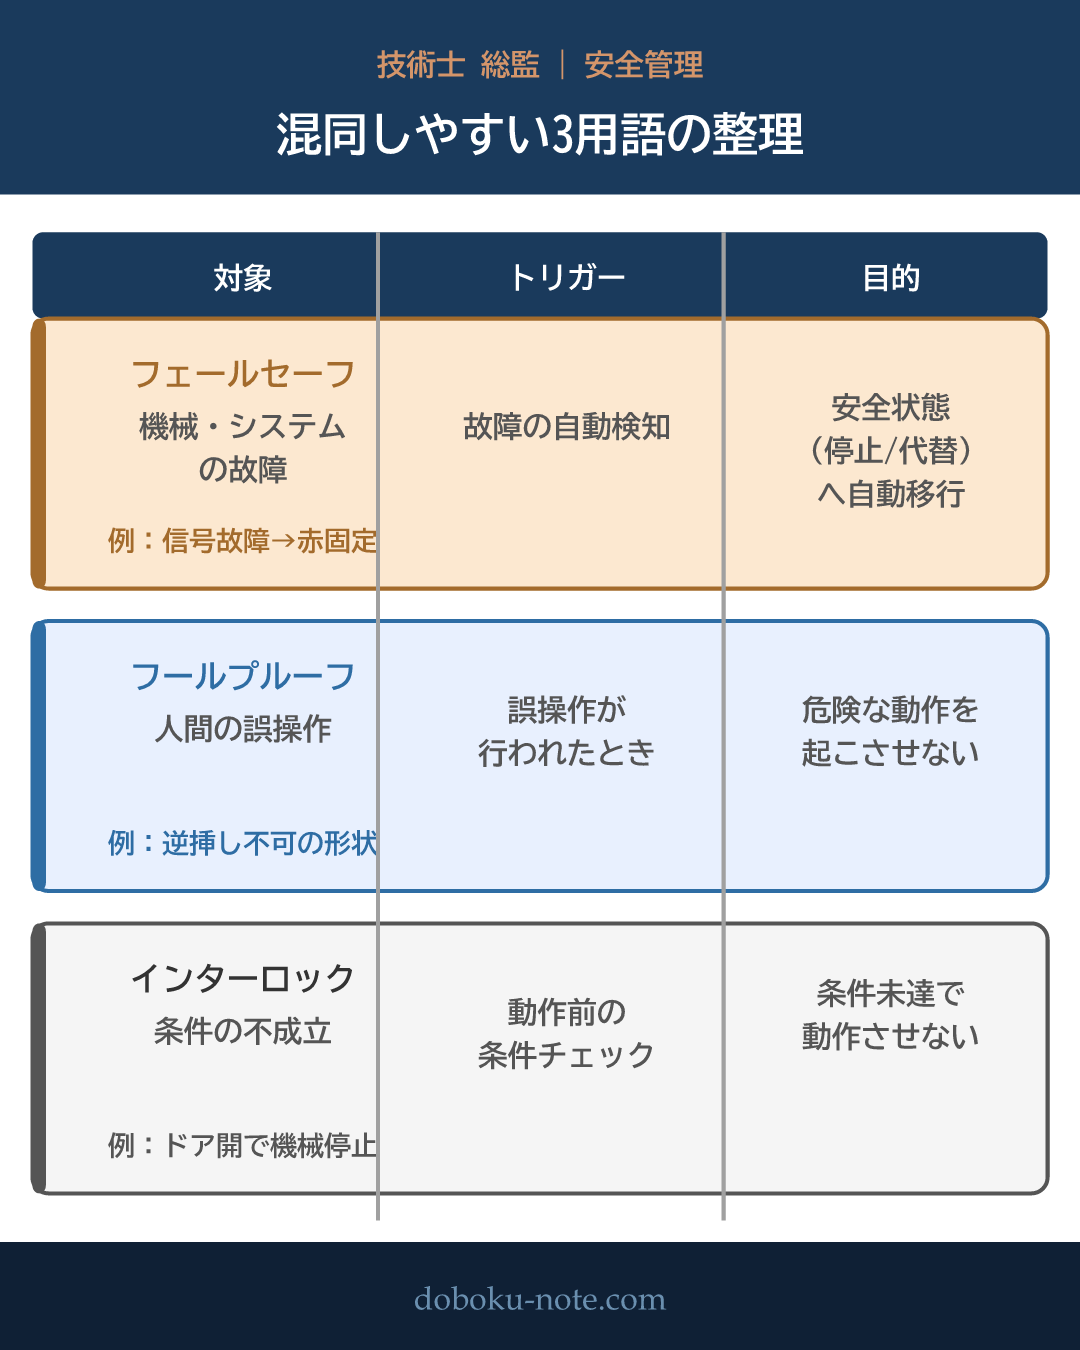
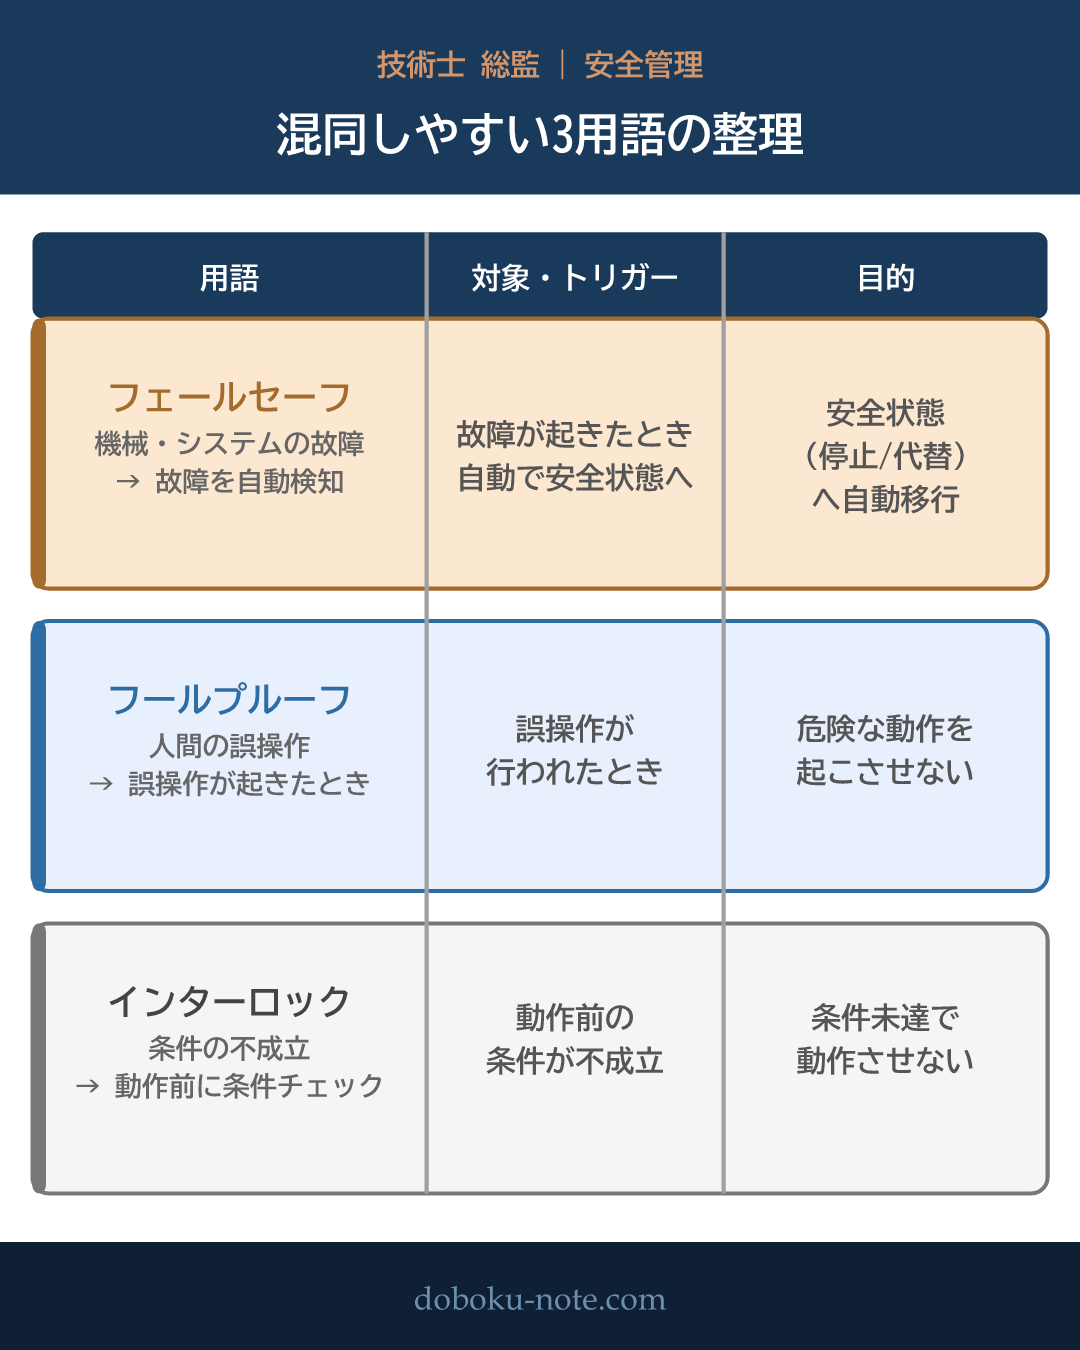
guard(ig): keyword pack SVGレイアウト品質ルール追加（即時目視確認・6点チェック）＋03-figure縦線位置修正

diff --git a/.claude/skills/social/ig-figure-pack/SKILL.md b/.claude/skills/social/ig-figure-pack/SKILL.md
@@ -50,6 +50,31 @@ docs/sns/instagram/{exam}/keyword-packs/{keyword}/   ← keyword-packs/ サブdi
 
 ## 進め方
 
+### 0. SVG コーディングルール（全スライド共通）
+
+SVG を Write したら**必ず即座に PNG を resvg で生成し Read で目視確認してから次のスライドに進む**。全枚書き終えてから一括確認しない（問題発覚が遅れる）。
+
+```bash
+node -e "
+import('@resvg/resvg-js').then(({Resvg})=>{
+  const {readFileSync,writeFileSync}=require('fs');
+  const svg=readFileSync('PATH/NN-name.svg','utf8');
+  const buf=new Resvg(svg,{fitTo:{mode:'width',value:1080},font:{loadSystemFonts:true}}).render().asPng();
+  writeFileSync('PATH/NN-name.png',buf);
+  console.log('done',buf.length);
+});
+"
+```
+
+**目視で必ず確認する 6 点（レイアウト品質）:**
+
+- [ ] **テキストが列/行境界をはみ出していない** — text-anchor="middle" + 中心座標で列幅の半分を超えるテキストは折り返しか font-size 縮小
+- [ ] **テキスト最下行の baseline から行ボーダー（rect 下辺）まで ≥ 20px 確保** — 行高 100px に対して最下テキストは bottom−20 以上の余裕
+- [ ] **カード内テキストはヘッダー矩形の bottom + 14px 以下から開始** — ヘッダー rect の下辺 y+h から 14px あけないと英字サブタイトル等がヘッダーに食い込む
+- [ ] **比較表の縦区切り線は全行セル rect の後に描画** — rect が先だと縦線が塗り潰される。`<!-- 縦線は最後 -->` コメントで明示
+- [ ] **各列のテキスト密度が縦方向に均等** — 左列が上部寄り・右列が中央など非対称になっていないか
+- [ ] **英字サブタイトル等の装飾テキストがヘッダー rect と重なっていない** — fill が薄い色でも bg と混ざって「幽霊テキスト」になる
+
 ### 1. ディレクトリ作成と SVG 設計
 
 ```bash
@@ -160,14 +185,23 @@ X ポリシーのタグ 1-3 個ルールとは別系統。IG は 20 個まで OK
 
 ### 4. 品質確認
 
-Read ツールで 4 枚 PNG を確認（画像として表示される）。チェックポイント:
+> **Step 0 で各スライド Write 直後に目視確認済みであること**が前提。ここは全枚揃った段階の最終チェック。
 
+Read ツールで全枚 PNG を確認（画像として表示される）。
+
+**コンテンツ（全スライド）**
 - [ ] 表紙に試験種ラベル（「技術士 総監 | {管理名}」等）が入っている
 - [ ] navy `#1a3a5c` / orange `#a36b2c` が統一されている
-- [ ] 図解スライドの viewBox・余白が許容範囲内
-- [ ] テキストスライドのポイントが 3 点で簡潔（各 1-2 行）
-- [ ] CTA に `doboku-note.com` ボタンと `@doboku-note` フッターが入っている
+- [ ] テキストスライドのポイントが簡潔（各 1-2 行）
+- [ ] CTA に `doboku-note.com` が入っている
 - [ ] caption.txt のハッシュタグが 15-20 個
+
+**視覚品質（Step 0 の 6 点を全枚で再確認）**
+- [ ] テキストが枠外にはみ出していない（特に比較表の左列・長い用語）
+- [ ] 行ボーダーとテキストの間に十分な余白がある（最下行 baseline から ≥ 20px）
+- [ ] 比較表の縦区切り線が全行にわたって見えている（行 rect に隠れていない）
+- [ ] 列間のテキスト密度が縦方向に揃っている（上寄り・下寄りの非対称がない）
+- [ ] 装飾テキストがヘッダーや背景矩形と重なっていない
 
 ### 5. スマホへの転送
 
